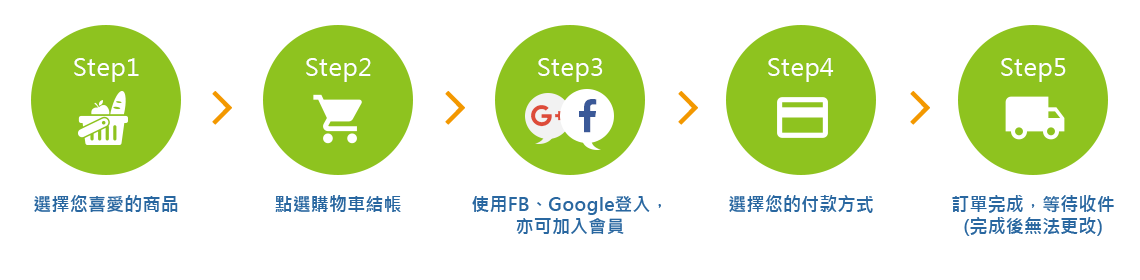
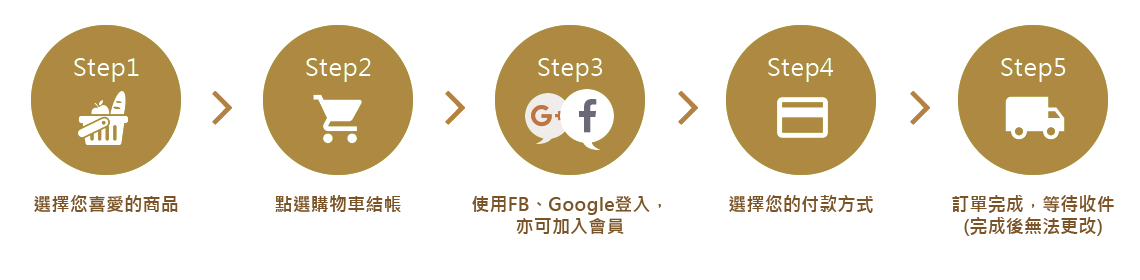
0924修改

diff --git a/Content/style.css b/Content/style.css
@@ -394,13 +394,13 @@ header {
   margin-bottom: 0;
 }
 .toolbar > ul > li {
-  margin-right: .75rem;
+  margin-right: 0.75rem;
   height: 100%;
   font-size: 1.15rem;
   display: flex;
   align-items: center;
   position: relative;
-  padding: 0 .75rem;
+  padding: 0 0.75rem;
 }
 .toolbar > ul > li.search_btn {
   cursor: pointer;
@@ -1977,16 +1977,16 @@ fieldset[disabled] .btn-fb.active {
 }
 
 .alert-register {
-  border-color: #8ec31b;
-  background-color: #8ec31b;
+  border-color: #B28146;
+  background-color: #B28146;
   color: white;
 }
 
 .policy h4 {
-  color: #f4b083;
+  color: #B28146;
   font-weight: 800;
   border-bottom-style: inset;
-  border-bottom-color: #f4b083;
+  border-bottom-color:  #B28146;
 }
 
 /*購物流程圖*/
@@ -2034,7 +2034,7 @@ fieldset[disabled] .btn-fb.active {
 }
 
 .stepwizard-step.active a {
-  background: #87b929;
+  background: #b28146;
   color: #fff;
 }
 
@@ -2108,7 +2108,32 @@ fieldset[disabled] .btn-fb.active {
 
 .page-heading-title {
   font-size: 24px;
-  border-bottom: 3px solid #e5921a;
+  border-bottom: 3px solid #b28146;
   line-height: 40px;
   padding-bottom: 5px;
+}
+
+.back-btn,.next-btn,.back-btn:hover,.next-btn:hover,.back-btn:focus,.next-btn:focus{
+  background-color: #b28146;
+  border-color: #b28146;
+}
+.back-btn:hover,.next-btn:hover{opacity: .8;}
+
+.log-in,.log-in:hover,.log-in:focus{
+  background-color: #b28146;
+  border-color: #b28146;
+}
+.log-in:hover{opacity: .8;}
+
+.edit_btn,.edit_btn:hover,.edit_btn:focus{
+  background-color: #b28146;
+  border-color: #b28146;
+}
+.edit_btn:hover{opacity: .8;}
+
+.list-group-item.active,
+.list-group-item.active:hover,
+.list-group-item.active:focus {
+  background-color: #b28146;
+  border-color: #b28146;
 }

diff --git a/member.html b/member.html
@@ -306,7 +306,7 @@
 
               <div class="form-group">
                 <div class="col-sm-offset-2 col-sm-10">
-                  <button type="submit" class="btn btn-primary btn-block">
+                  <button type="submit" class="btn btn-primary btn-block edit_btn">
                     確定修改
                   </button>
                 </div>

diff --git a/login.html b/login.html
@@ -226,7 +226,7 @@
                   <div class="col-sm-offset-2 col-sm-10">
                     <button
                       type="submit"
-                      class="btn btn-lg btn-block btn-primary"
+                      class="btn btn-lg btn-block btn-primary log-in"
                     >
                       登入
                     </button>

diff --git a/regist.html b/regist.html
@@ -107,7 +107,7 @@
         <div class="row">
           <div class="col-xs-12 col-sm-8">
             <div class="alert alert-register">
-              <p class="text-center">註冊正新鮮帳號</p>
+              <p class="text-center">註冊青木工坊帳號</p>
             </div>
             <form
               action="/Account/Register"
